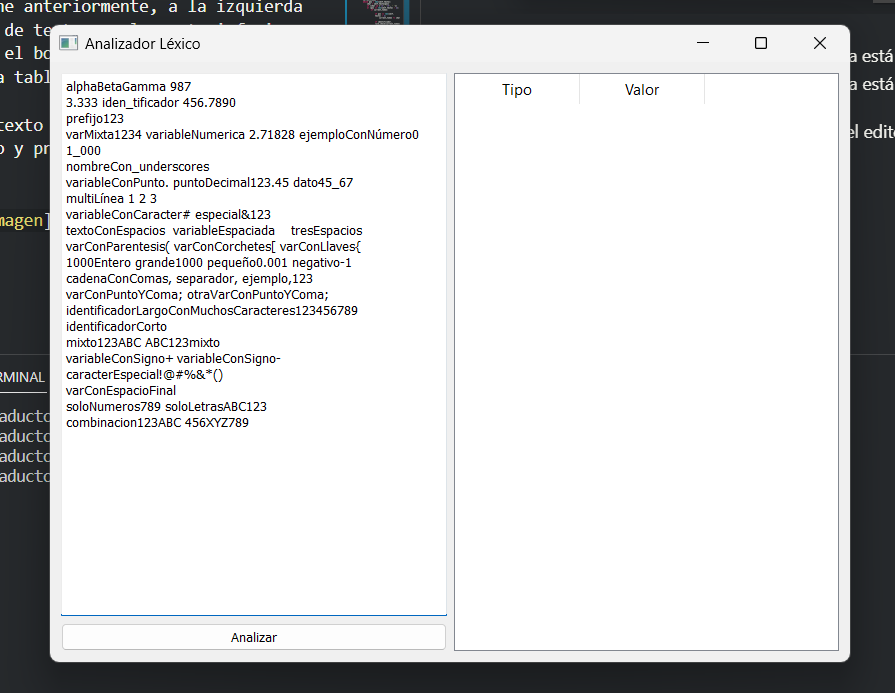
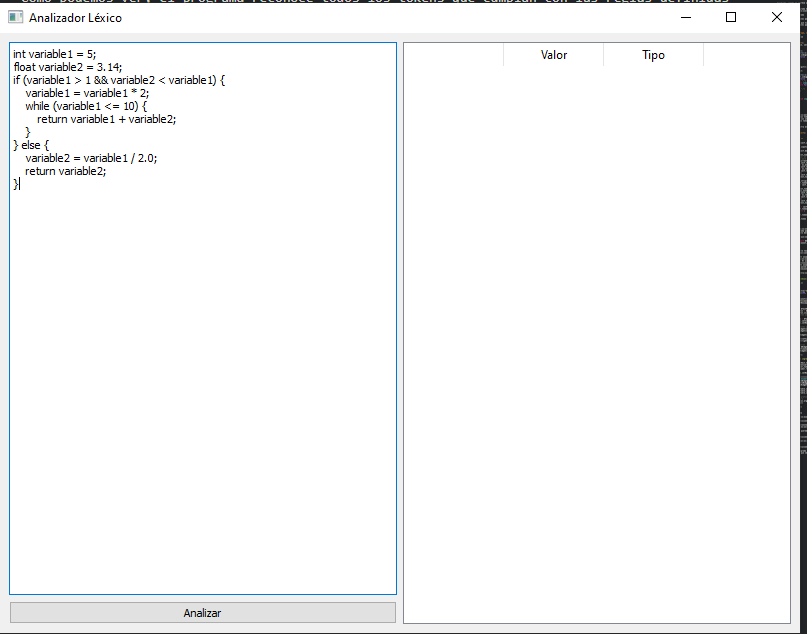
Reporte del Tokenizer

Changed region(s): [[0.0, 0.0, 1.0, 1.0]]

diff --git a/README.md b/README.md
@@ -1,21 +1,9 @@
-# Mini generador léxico 
-
-## Tabla de contenidos
-- [Mini generador léxico](#mini-generador-léxico)
-  - [Tabla de contenidos](#tabla-de-contenidos)
-  - [Introducción](#introducción)
-  - [Descripción del programa](#descripción-del-programa)
-    - [Clase Token y sus hijos](#clase-token-y-sus-hijos)
-    - [Funciones para reconocer los tokens](#funciones-para-reconocer-los-tokens)
-    - [Analizador léxico](#analizador-léxico)
-    - [Interfaz gráfica](#interfaz-gráfica)
-  - [Ejecución del programa](#ejecución-del-programa)
+# Analizador léxico completo.
 
 ## Introducción
-Este programa consiste en un pequeño **_analizadr léxico_** que reconoce los siguientes tokens:
-- **Identificadores**
-- **Números enteros**
-- **Números reales**
+Este programa consiste en un **_analizadr léxico_** que reconoce los siguientes tokens:
+![Tokens](./ejecucion/tabla-tokens-1.png)
+![Tokens](./ejecucion/tabla-tokens-2.png)
 
 Asismismo, cuando se ingresa un caracter no reconocido, el programa lo identifica como un **_error léxico_**.
 
@@ -23,76 +11,21 @@ el objetivo de este programa es mostrar el funcionamiento de un analizador léxi
 
 ## Descripción del programa
 
-### Clase Token y sus hijos
+### Clase Token y funciones para reconocer los cadenas
 
-El programa esta escrito en **Python** y está orientado a objetos, por lo que se utilizan clases y herencia para su funcionamiento.
+Se crea una clase Token que tiene como atributos el tipo de token, su valor y un identificador. Ademas se definen funciones para identificar tipos de cadenas para poder reconocer los tokens.
 
-Las clases que se utilizan son las siguientes:
-- **Token**: Clase padre que contiene los atributos de un token.
-- **Identificador**: Clase hija que hereda los atributos de la clase Token y agrega las reglas para reconocer un identificador a través de una función.
-- **Entero**: Clase hija que hereda los atributos de la clase Token y agrega las reglas para reconocer un número entero a través de una función.
-- **Real**: Clase hija que hereda los atributos de la clase Token y agrega las reglas para reconocer un número real a través de una función.
-- **Error**: Clase hija que hereda los atributos de la clase Token y que no agregó ninguna regla para reconocer un error léxico, ya que se utiliza para cuando se ingresa un caracter no reconocido.
-
-En el siguiente codigo se muestra la definición de la clase Token y sus hijos:
-
-```python
-#Definimos la clase Token
+```python	
 class Token:
-    def __init__(self, tipo, reglas=None):
-        self.tipo = tipo
-        self.valor = ''
-        self.reglas = reglas
-    
-    def set_valor(self, input):
-            self.valor = input
-    
-    def rule_check(self, input):
-        return self.reglas(input)
-    
+    def __init__(self, type, value, _id=None):
+        self.type = type
+        self.value = value
+        self._id = _id
+
     def return_token(self):
-        return (self.tipo,self.valor)
-
-#Utilizamos herencia para definir los diferentes tipos de tokens
-class Identificador(Token):
-    def __init__(self):
-        super().__init__('identificador', es_identificador)
-
-class Entero(Token):
-    def __init__(self):
-        super().__init__('entero', es_entero)
-
-class Real(Token):
-    def __init__(self):
-        super().__init__('real', es_real)
-
-class Error(Token):
-    def __init__(self):
-        super().__init__('error')
-```
-Como podemos ver cada clase hija recibe una funcion como parametro, esta funcion es la que se encarga de reconocer el token, por lo que cada clase hija tiene una funcion diferente. Este enfoque nos permite agregar nuevos tokens de una manera sencilla, ya que solo tenemos que crear una nueva clase hija y agregar la funcion que reconoce el token, además de poder agregar nuevos metodso a cada token según sea necesario.
-
-### Funciones para reconocer los tokens
-
-Las reglas para reconocer los tokens son las siguientes:
-```python
-def es_identificador(input):
-    '''
-    Verifica si el input contiene sólo letras y números en el orden correcto.
-    En caso de que el input sea un identificador, regresa True, en caso contrario regresa False.
-    '''
-    if input[0].isalpha():
-        for char in input[1:]:
-            if not (char.isalpha() or char.isdigit()):
-                return False
-        return True
-    return False
+        return (self.type, self.value, self._id)
 
 def es_entero(input):
-    '''
-    Verifica si el input contiene sólo números.
-    En caso de que el input sea un número entero, regresa True, en caso contrario regresa False.
-    '''
     if input[0].isdigit():
         for char in input[1:]:
             if not char.isdigit():
@@ -101,10 +34,6 @@ def es_entero(input):
     return False
 
 def es_real(input):
-    '''
-    Verifica si el input contiene sólo números y un sólo punto decimal intermedio.
-    En caso de que el input sea un número real, regresa True, en caso contrario regresa False.
-    '''
     if not input[0].isdigit():
         return False
     elif input[0].isdigit:
@@ -119,58 +48,65 @@ def es_real(input):
         if input[-1] == '.':
             return False
         return True
+
+def es_cadena(input):
+    if input[0] == '"' and input[-1] == '"':
+        return True
+    return False
 ```
+
+
 ### Analizador léxico
 
-El analizador léxico es la parte principal del programa, ya que es la que se encarga de reconocer y clasificar los tokens. El analizador cuenta con sólo un atributo, que es el texto que se va a analizar, y con un método que se encarga de realizar el análisis léxico. El método va dividiendo el texto en tokens y cada token es clasificado a través de los métodos de las clases hijas deifnidad previamente, las cuales retornan una tupla con el tipo de token y su valor en caso de que el token cumpla con las reglas, si el token actual en el analisis no cumple con ninguna regla, se clasifica como un error léxico. Al terminar de analizar el texto, el método retorna una lista con los tokens encontrados.
+El analizador léxico es la parte principal del programa, ya que es la que se encarga de reconocer y clasificar los tokens. El analizador cuenta con sólo un atributo, que es el texto que se va a analizar, y con un método que se encarga de realizar el análisis léxico. El método va dividiendo el texto en tokens y cada token es clasificado segun un ciclo que define los estados del autómata.
 
-El siguiente codigo muestra la definición del analizador léxico:
+El siguiente codigo muestra el metodo que se encarga de realizar el análisis léxico:
 
 ```python
-#Definimos el analizador lexico
-class AnalizadorLexico:
-    def __init__(self, texto=''):
-        self.texto = texto
-
     def obtener_tokens(self):
-            """
-            Esta función analiza el texto y devuelve una lista de tokens encontrados.
-            
-            Returns:
-                list: Lista de tokens encontrados en el texto.
-            """
-            identificador = Identificador()
-            entero = Entero()
-            real = Real()
-            error = Error()
-            pos = 0
-            tokens = []
-            current_token = ''
-            while pos < len(self.texto):
-                char = self.texto[pos]
-                if (char in ['\n', '\t', ' ']) or (pos == len(self.texto) - 1):
-                    if current_token:
+        pos = 0
 
-                        if pos == len(self.texto) - 1:
-                            current_token += char
+        current_token = ""
 
-                        if identificador.rule_check(current_token):
-                            identificador.set_valor(current_token)
-                            tokens.append(identificador.return_token())
-                        elif entero.rule_check(current_token):
-                            entero.set_valor(current_token)
-                            tokens.append(entero.return_token())
-                        elif real.rule_check(current_token):
-                            real.set_valor(current_token)
-                            tokens.append(real.return_token())
-                        else:
-                            error.set_valor(current_token)
-                            tokens.append(error.return_token())
-                        current_token = ''
+        while pos < len(self.input):
+
+            char = self.input[pos]
+
+            if char in self.delimiters:
+
+                if current_token:
+                    # Aquí es donde determinaríamos si es un tipo de dato, un identificador o un número
+                    if current_token in self.reserved_words:
+                        self.tokens_tuples.append(('RESERVED_WORD', current_token))
+                    elif es_entero(current_token):
+                        self.tokens_tuples.append(('INTEGER', current_token))
+                    elif es_real(current_token):
+                        self.tokens_tuples.append(('FLOAT', current_token))
+                    else:
+                        self.tokens_tuples.append(('IDENTIFIER', current_token))
+                    current_token = ""
+
+                if char.strip():
+                    self.tokens_tuples.append(('DELIMITER', char))
+            elif char in self.operators:
+
+                if current_token:
+                    if es_entero(current_token):
+                        self.tokens_tuples.append(('INTEGER', current_token))
+                    elif es_real(current_token):
+                        self.tokens_tuples.append(('FLOAT', current_token))
+                    else:
+                        self.tokens_tuples.append(('IDENTIFIER', current_token))
+                    current_token = ""
+
+                if char + self.input[pos + 1] in self.operators:
+                    self.tokens_tuples.append(('OPERATOR', char + self.input[pos + 1]))
+                    pos += 1
                 else:
-                    current_token += char
-                pos += 1
-            return tokens
+                    self.tokens_tuples.append(('OPERATOR', char))
+            else:
+                current_token += char
+            pos += 1
 ```
 ### Interfaz gráfica
 
@@ -190,7 +126,6 @@ Mi intención es permitirle tener al usuario una experiencia los más cercana a 
 El siguiente codigo muestra la definición de la interfaz gráfica:
 
 ```python
-#Definimos la interfaz grafica   
 class MainWindow(QMainWindow):
     def __init__(self):
         super().__init__()
@@ -211,8 +146,8 @@ class MainWindow(QMainWindow):
         self.analyzeButton.clicked.connect(self.analyzeText) # Conectar el evento click del botón con el método analyzeText
 
         self.tokensTable = QTableWidget()
-        self.tokensTable.setColumnCount(2)
-        self.tokensTable.setHorizontalHeaderLabels(["Tipo", "Valor"])
+        self.tokensTable.setColumnCount(3)
+        self.tokensTable.setHorizontalHeaderLabels([" ", "Valor", "Tipo"])
 
         # Añadir componentes a los layouts
         leftLayout.addWidget(self.textEdit)
@@ -233,8 +168,9 @@ class MainWindow(QMainWindow):
         Analiza el texto ingresado en el widget de texto y muestra los tokens en una tabla.
         """
         text = self.textEdit.toPlainText() # Obtenemos el texto del widget de texto
-        analizador = AnalizadorLexico(text) # Creamos una instancia del analizador léxico con el texto ingresado
-        tokens = analizador.obtener_tokens() # Obtenemos los tokens del analizador léxico
+        analizador = Tokenizer(text)
+        analizador.obtener_tokens()
+        tokens =  analizador.return_tokens()
 
         self.tokensTable.setRowCount(len(tokens))
 
@@ -242,9 +178,11 @@ class MainWindow(QMainWindow):
         for i, token in enumerate(tokens):
             tipo = QTableWidgetItem(token[0])
             valor = QTableWidgetItem(token[1])
+            _id = QTableWidgetItem(str(token[2]))
 
             self.tokensTable.setItem(i, 0, tipo)
             self.tokensTable.setItem(i, 1, valor)
+            self.tokensTable.setItem(i, 2, _id)
 
 #Ejecutamos la interfaz grafica
 if __name__ == '__main__':
